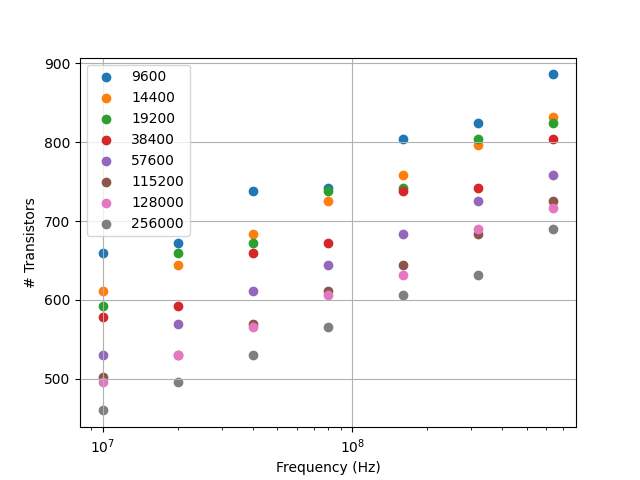
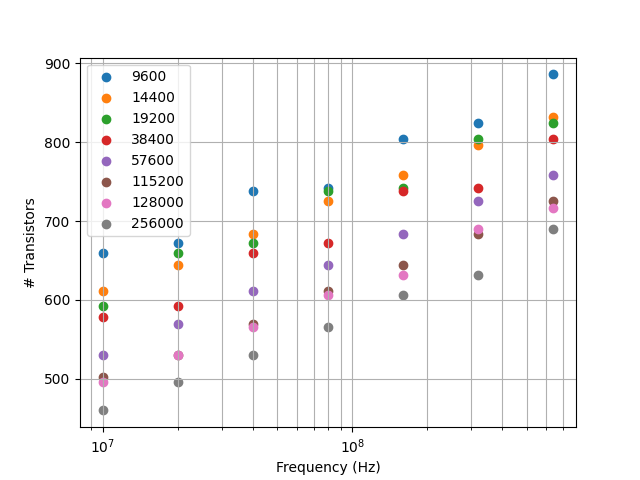
synth

diff --git a/synth/lib/plot.py b/synth/lib/plot.py
@@ -27,7 +27,8 @@ def main(csv_file, png_file):
     plt.xscale('log')
     plt.xlabel("Frequency (Hz)")
     plt.ylabel("# Transistors")
-    plt.grid()
+    plt.grid(which='major')
+    plt.grid(which='minor')
     plt.savefig(png_file)
 
 

diff --git a/README.md b/README.md
@@ -54,5 +54,10 @@
  - ``i_valid``: Input, 1-bit wide control signal to be asserted high when ``i_data`` is ready
  - ``o_accept``: Output, 1-bit wide control signal asserted once ``i_data`` captured 
 
+### Synthesised Size
+
+![Screenshot](doc/images/x_uart_tx.png)
+
+
 ## Verification
 
